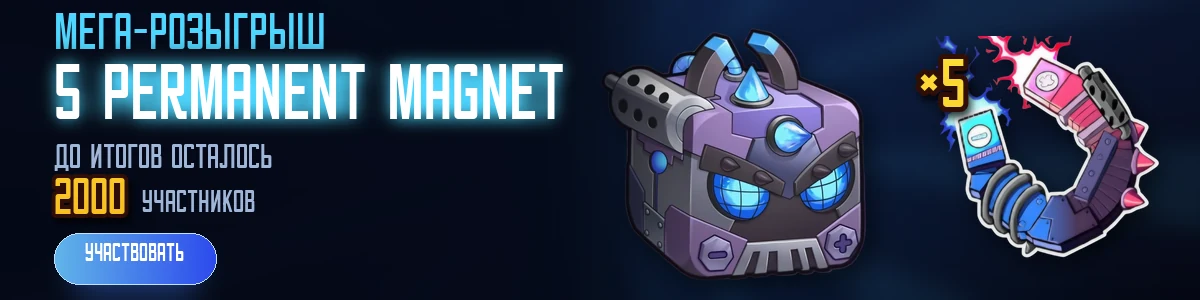
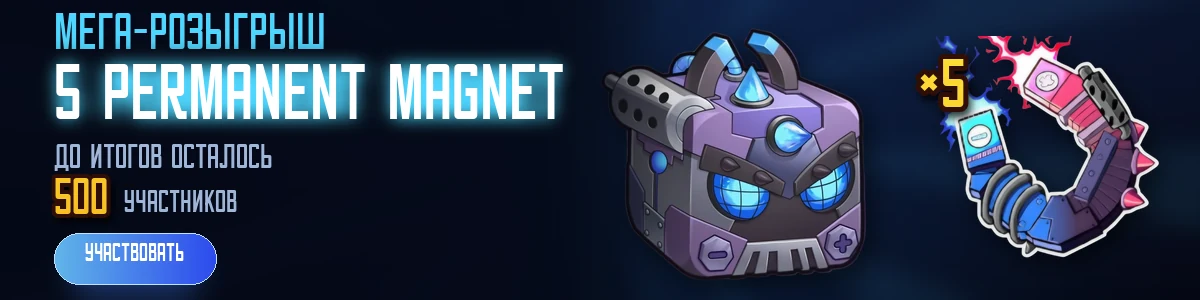
feat(promo): в счётчике розыгрыша 500 участников вместо 2000
COUNT в генераторе и все четыре макета assets/promo/giveaway-*.webp
перерисованы под новое число, promo.giveawayText в обоих словарях приведён
к нему же: текст объявления и картинка обязаны называть одну цифру, иначе
расхождение читается как ошибка.

Версия i18n.js поднята, иначе словарь приедет из кеша.

Проверка: php-тесты (25 файлов) и node-тесты (8 файлов) зелёные,
tools/check-giveaway-ui.mjs — 18 проверок, всё зелёное.

Changed region(s): [[0.0925, 0.57, 0.2158, 0.72], [0.0308, 0.6, 0.0617, 0.69]]

diff --git a/public_html/js/i18n.js b/public_html/js/i18n.js
@@ -224,7 +224,7 @@
       "promo.houseTgText":      "Свежие цены, розыгрыши и новости Blox Fruits — в нашем телеграм-канале",
       "promo.houseTgCta":       "Открыть канал",
 
-      "promo.giveawayText":     "Розыгрыш в честь Update 30: 5 permanent Magnet. До итогов осталось 2000 участников",
+      "promo.giveawayText":     "Розыгрыш в честь Update 30: 5 permanent Magnet. До итогов осталось 500 участников",
       "promo.giveawayCta":      "Участвовать",
       "promo.playerokText":     "Фрукты, мутации, скины и донат — по лучшим ценам на Playerok",
       "promo.playerokCta":      "Перейти на Playerok",
@@ -658,7 +658,7 @@
       "promo.cta":              "Open",
       "promo.houseTgText":      "Fresh prices, giveaways and Blox Fruits news — in our Telegram channel",
       "promo.houseTgCta":       "Open the channel",
-      "promo.giveawayText":     "Update 30 giveaway: 5 permanent Magnet. 2000 participants to go",
+      "promo.giveawayText":     "Update 30 giveaway: 5 permanent Magnet. 500 participants to go",
       "promo.giveawayCta":      "Enter the giveaway",
       "promo.playerokText":     "Fruits, mutations, skins and top-ups at the best prices on Playerok",
       "promo.playerokCta":      "Go to Playerok",

diff --git a/public_html/news.php b/public_html/news.php
@@ -355,7 +355,7 @@ $robots = $notFound ? 'noindex, follow' : 'index, follow, max-image-preview:larg
 <?php if ($linkedPostId !== null): ?>
   <script>window.NX_LINKED_POST_ID = <?= (int)$linkedPostId ?>;</script>
 <?php endif; ?>
-  <script src="js/i18n.js?v=39"></script>
+  <script src="js/i18n.js?v=40"></script>
   <script src="js/news.js?v=5"></script>
   <script src="js/news-blocks.js?v=2"></script>
 

diff --git a/public_html/index.php b/public_html/index.php
@@ -537,7 +537,7 @@ if (!defined('TESTING') && !defined('NX_ADMIN_RENDER')) {
 
   <script>window.NX_REV = <?= (int)$nxRev ?>;</script>
 <?php endif; ?>
-  <script src="js/i18n.js?v=39"></script>
+  <script src="js/i18n.js?v=40"></script>
   <script src="js/content.js?v=3"></script>
   <script src="js/tiers.js?v=2"></script>
 

diff --git a/tools/make-giveaway-creatives.py b/tools/make-giveaway-creatives.py
@@ -62,7 +62,7 @@ T_PRIZE = "5 PERMANENT MAGNET"
 T_PRIZE2 = ["5 PERMANENT", "MAGNET"]
 T_COUNT_LEAD = "ДО ИТОГОВ ОСТАЛОСЬ"
 T_COUNT_LEAD2 = ["ДО ИТОГОВ", "ОСТАЛОСЬ"]
-COUNT = "2000"
+COUNT = "500"
 COUNT_UNIT = "УЧАСТНИКОВ"
 T_BTN = "УЧАСТВОВАТЬ"
 

diff --git a/public_html/calculator.php b/public_html/calculator.php
@@ -414,7 +414,7 @@ header('Cache-Control: no-cache, must-revalidate');
     </div>
   </div>
 
-  <script src="js/i18n.js?v=39"></script>
+  <script src="js/i18n.js?v=40"></script>
   <script src="js/promo.js?v=9"></script>
 
   <script src="js/promo-dock.js?v=5"></script>

diff --git a/public_html/home.php b/public_html/home.php
@@ -353,7 +353,7 @@ header('Cache-Control: no-cache, must-revalidate');
     </p>
 </footer>
 
-<script src="js/i18n.js?v=39"></script>
+<script src="js/i18n.js?v=40"></script>
 <script src="js/home.js?v=5"></script>
 </body>
 </html>
